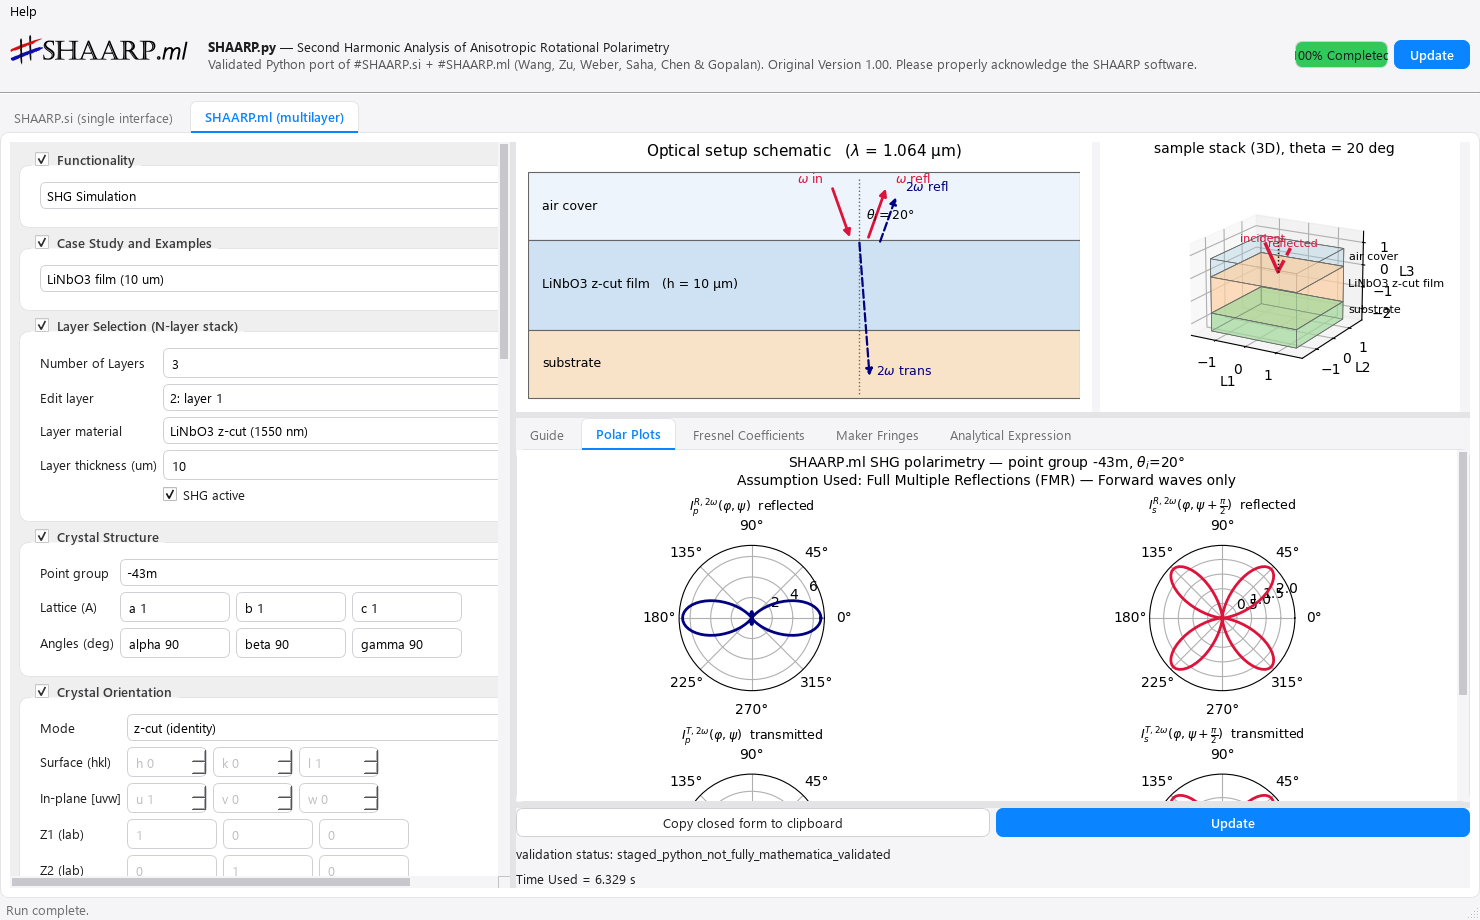
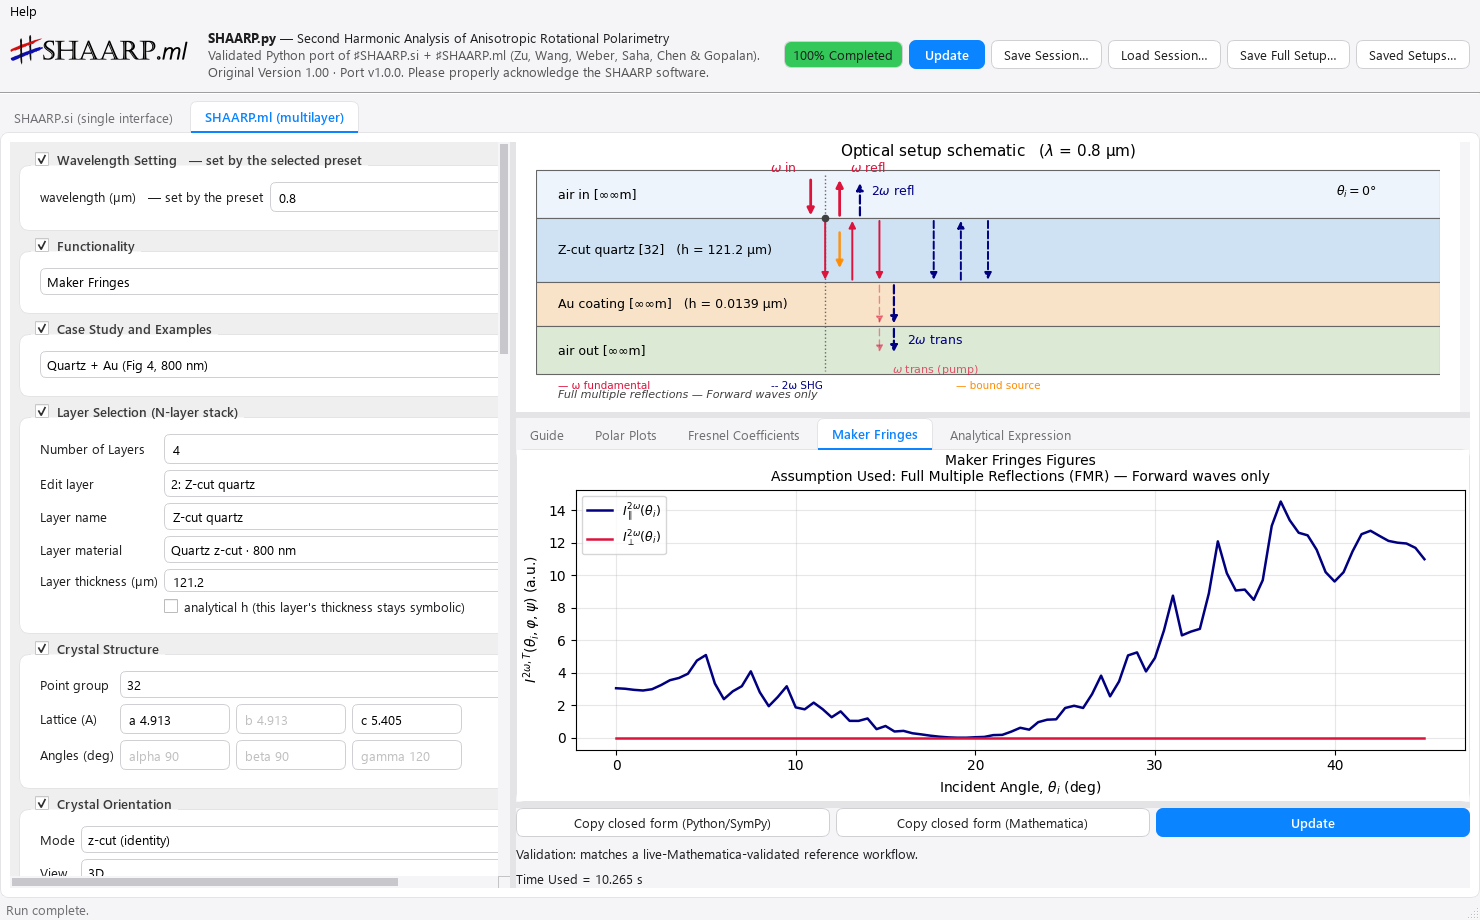
update

diff --git a/shaarp/desktop_app.py b/shaarp/desktop_app.py
@@ -419,6 +419,44 @@ def _load_logo_pixmap(QtGui):
     return _load_asset_pixmap(QtGui, "shaarp_ml_logo.png")
 
 
+def _layer_specs_equal(old: dict, new: dict) -> bool:
+    """True only when two layer specs are CERTAINLY identical.
+
+    Used to decide whether writing the edit fields back into the stack was a real user edit.
+    Clicking Update settles the selected row first, and that write-back used to mark a named
+    preset "edited (re-select to reset)" even when nothing had been touched -- which also routed
+    the compute down the modified-working-copy branch instead of the pristine factory one.
+
+    Deliberately conservative: any value we cannot compare confidently (a numpy tensor inside a
+    custom row, a nested dict, an exotic type) reports "different", which preserves the previous
+    always-dirty behaviour. A false "changed" costs a cosmetic marker; a false "unchanged" would
+    silently drop a real edit.
+    """
+    if old is new:
+        return True
+    if set(old) != set(new):
+        return False
+    for key in old:
+        a, b = old[key], new[key]
+        if key == "material":
+            # The stack holds the REGISTRY KEY ("Quartz z-cut (800 nm)") while the picker displays
+            # the palette label ("Quartz z-cut · 800 nm"). Comparing those raw strings made every
+            # settle look like a material change -- the actual reason untouched presets went dirty.
+            from .casestudy_materials import resolve_case_label
+            if resolve_case_label(a) != resolve_case_label(b):
+                return False
+            continue
+        if isinstance(a, (str, bool, int, float)) and isinstance(b, (str, bool, int, float)):
+            if type(a) is bool or type(b) is bool:
+                if bool(a) != bool(b):
+                    return False
+            elif a != b:
+                return False
+            continue
+        return False  # anything richer: do not guess
+    return True
+
+
 def _hline(QtWidgets):
     line = QtWidgets.QFrame()
     line.setFrameShape(QtWidgets.QFrame.HLine)
@@ -878,6 +916,12 @@ def build_main_window():
     progress.setValue(0)
     progress.setFormat("Ready")  # idle state; becomes "Computing…" then "100% Completed" per Update
     progress.setMaximumWidth(220)
+    # ...and never narrower than its own longest label. With only a maximum set, the bar could be
+    # squeezed until "100% Completed" rendered as "00% Completed" -- which is what both shipped
+    # documentation screenshots caught it doing. Measured from the widget's own font so it holds
+    # under another theme or DPI, and capped at the 220 maximum so it can never widen the window.
+    progress.setMinimumWidth(
+        min(220, progress.fontMetrics().horizontalAdvance("100% Completed") + 26))
     progress.setToolTip("Computation progress. Shows '100% Completed' after each Update (top, "
                         "input-panel, and output-panel Update buttons all recompute).")
     h_lay.addWidget(progress, 0)
@@ -1617,6 +1661,9 @@ def build_main_window():
                 if layer_mat.currentText() == ISOTROPIC_LAYER_CHOICE:
                     # the grids (Dielectric Tensors panel) own the values now — carry them over
                     spec["iso_n"] = list(old.get("iso_n") or [1.45, 1.46])
+                # settled_unchanged: the fields still hold exactly what is already in the stack,
+                # so this write-back is not a user edit and must not dirty the preset.
+                settled_unchanged = _layer_specs_equal(old, spec)
                 stack_state["stack"][i] = spec
                 sel = system_preset.currentText()
                 if sel == "N-layer stack (editor)":
@@ -1628,8 +1675,9 @@ def build_main_window():
                     # already reads stack_film_thickness_um — live, no divergence
                     _simple_template["um"] = float(layer_thick.value())
                     return
-                # any other edit diverges the working copy from the factory path
-                _set_ml_dirty(True)
+                # any other REAL edit diverges the working copy from the factory path
+                if not settled_unchanged:
+                    _set_ml_dirty(True)
 
             def _on_count_change(n):
                 # no mode switch — a count change modifies the working copy in place

diff --git a/tests/test_update_contract.py b/tests/test_update_contract.py
@@ -49,6 +49,73 @@ def _schematic_angle_texts(page):
 
 
 @unittest.skipUnless(HAVE_QT, "PySide6 not available")
+class PlainUpdateIsNotAnEdit(unittest.TestCase):
+    """Running a named preset must not mark it edited -- and the flag routes the COMPUTE.
+
+    Update settles the selected layer row before dispatching. That write-back rebuilds the spec
+    from the widgets, and the stack stores a material REGISTRY KEY ("Quartz z-cut (800 nm)") while
+    the picker displays the palette LABEL ("Quartz z-cut - 800 nm"). Comparing those two spellings
+    made every settle look like a material change, so a fresh preset went dirty the moment anyone
+    pressed Update: the group read "edited (re-select to reset)" when nothing had been touched, and
+    `on_run` then took the modified-working-copy branch instead of the pristine factory one. (The
+    two branches agree to ~1e-12, so this was never wrong numbers -- but it told the user their
+    untouched preset had been modified, on the ML tab the documentation tells them to open first.)
+
+    Both directions are pinned here: a plain Update stays clean, a real edit still dirties.
+    """
+
+    @classmethod
+    def setUpClass(cls):
+        from shaarp.desktop_app import build_main_window
+
+        cls.app = QtWidgets.QApplication.instance() or QtWidgets.QApplication([])
+        cls.win = build_main_window()
+
+    def _ml_case_group_title(self):
+        # BOTH tabs own a "Case Study and Examples" group; the ML one is last. Reading the first
+        # returns the SI tab's, which stays clean either way and hides the defect entirely.
+        titles = [g.title() for g in self.win.findChildren(QtWidgets.QGroupBox)
+                  if g.title().startswith("Case Study and Examples")]
+        self.assertTrue(titles, "no Case Study group found")
+        return titles[-1]
+
+    def _run_ml_update(self):
+        btn = [b for b in self.win.findChildren(QtWidgets.QPushButton)
+               if b.text() == "Update / Run"][-1]
+        btn.click()
+        for _ in range(120):
+            self.app.processEvents()
+
+    def test_a_plain_update_does_not_mark_an_untouched_preset_edited(self):
+        tabs = self.win.findChild(QtWidgets.QTabWidget)
+        tabs.setCurrentIndex(1)
+        for _ in range(15):
+            self.app.processEvents()
+        self.assertNotIn("edited", self._ml_case_group_title(), "dirty before anything happened")
+        self._run_ml_update()
+        self.assertNotIn(
+            "edited", self._ml_case_group_title(),
+            "a plain Update marked an untouched preset as edited -- the settle is being counted "
+            "as a user edit again (check _layer_specs_equal and the material label/key spellings)")
+
+    def test_a_real_edit_still_marks_the_preset_edited(self):
+        """The guard above must not be bought by suppressing genuine edits."""
+        tabs = self.win.findChild(QtWidgets.QTabWidget)
+        tabs.setCurrentIndex(1)
+        for _ in range(15):
+            self.app.processEvents()
+        self._run_ml_update()
+        spins = [s for s in self.win.findChildren(QtWidgets.QDoubleSpinBox)
+                 if "thickness" in (s.toolTip() or "").lower()]
+        self.assertTrue(spins, "no layer-thickness spin found")
+        spins[0].setValue(spins[0].value() + 5.0)
+        for _ in range(40):
+            self.app.processEvents()
+        self.assertIn("edited", self._ml_case_group_title(),
+                      "a real thickness edit no longer marks the preset edited")
+
+
+@unittest.skipUnless(HAVE_QT, "PySide6 not available")
 class UpdateContractAndStaleBanner(unittest.TestCase):
     @classmethod
     def setUpClass(cls):

diff --git a/tests/test_release_archive_name.py b/tests/test_release_archive_name.py
@@ -18,6 +18,7 @@ one broke whenever a comment was reflowed. A fence with its own copy of the logi
 """
 from __future__ import annotations
 
+import platform
 import sys
 import unittest
 from pathlib import Path
@@ -32,7 +33,7 @@ OUT = Path("dist") / "release"
 
 class ReleaseArchiveNameTests(unittest.TestCase):
     VERSIONS = ("1.0.0", "1.0.1", "1.2.3", "1.10.0", "10.20.30")
-    TOKENS = ("win64", "macos")
+    TOKENS = ("win64", "macos_arm64")
 
     def test_the_name_keeps_the_full_version_and_the_platform(self):
         for version in self.VERSIONS:
@@ -65,12 +66,20 @@ class ReleaseArchiveNameTests(unittest.TestCase):
         self.assertEqual(archive_path(OUT, "1.0.0").name,
                          f"SHAARP_py_v1.0.0_{platform_token()}.zip")
 
-    def test_one_bundle_per_operating_system(self):
-        """Windows and macOS are the built targets; the tokens carry no CPU architecture."""
-        for token in self.TOKENS:
-            name = archive_path(OUT, "1.0.0", token).name
-            self.assertNotIn("arm64", name)
-            self.assertNotIn("x86_64", name)
+    def test_the_macos_token_names_its_cpu_architecture(self):
+        """The macOS bundle is not universal2, so the asset name must say which Mac it runs on.
+
+        An arm64 app on an Intel Mac fails with "not supported on this Mac" -- not the Gatekeeper
+        dialog that every page of the documentation prepares the reader for, so none of the advice
+        applies. While the asset was named plain "macos", the only statement of the architecture
+        was a parenthesis in the README table, which a visitor arriving via the download badge
+        never sees.
+        """
+        token = platform_token()
+        if not token.startswith("macos"):
+            self.skipTest("the architecture suffix is a macOS concern")
+        self.assertRegex(token, r"^macos_\w+$")
+        self.assertIn(platform.machine(), archive_path(OUT, "1.0.0").name)
 
 
 if __name__ == "__main__":

diff --git a/shaarp/shaarp_gui.py b/shaarp/shaarp_gui.py
@@ -934,7 +934,7 @@ def build_custom_ml_system(
         surface_hkl=surface_hkl, in_plane_uvw=in_plane_uvw, z_axes=z_axes,
     )
     substrate = Material(
-        name="custom substrate", structure=CrystalStructure(point_group="1"), orientation=CrystalOrientation(),
+        name="custom substrate", structure=CrystalStructure(point_group="∞∞m"), orientation=CrystalOrientation(),
         epsilon_omega=(np.eye(3) * substrate_n_omega**2).astype(complex),
         epsilon_2omega=(np.eye(3) * substrate_n_2omega**2).astype(complex),
         d_voigt_pm_v=np.zeros((3, 6), dtype=complex),
@@ -945,7 +945,7 @@ def build_custom_ml_system(
         ambient = presets.air()
     else:
         ambient = Material(
-            name="ambient", structure=CrystalStructure(point_group="1"), orientation=CrystalOrientation(),
+            name="ambient", structure=CrystalStructure(point_group="∞∞m"), orientation=CrystalOrientation(),
             epsilon_omega=(np.eye(3) * ambient_n_omega**2).astype(complex),
             epsilon_2omega=(np.eye(3) * ambient_n_2omega**2).astype(complex),
             d_voigt_pm_v=np.zeros((3, 6), dtype=complex),

diff --git a/scripts/build_gui_bundle.py b/scripts/build_gui_bundle.py
@@ -21,6 +21,7 @@ from __future__ import annotations
 import argparse
 import importlib.util
 import os
+import platform
 import shutil
 import subprocess
 import sys
@@ -216,11 +217,19 @@ def data_root(app: Path) -> Path:
 
 
 def platform_token() -> str:
-    """Suffix identifying a release archive -- one bundle per operating system."""
+    """Suffix identifying a release archive.
+
+    macOS carries its CPU architecture because the bundle is NOT universal2. An arm64 build on an
+    Intel Mac fails with "not supported on this Mac" -- which looks nothing like the Gatekeeper
+    prompt the documentation prepares people for, so the reader has no idea what went wrong. The
+    asset was previously called just "macos", which told an Intel user nothing until they had
+    downloaded 80 MB. Deriving the architecture rather than hardcoding it means the name cannot
+    lie about a bundle built on some other machine.
+    """
     if IS_WIN:
         return "win64"
     if IS_MAC:
-        return "macos"
+        return f"macos_{platform.machine()}"  # arm64 on Apple Silicon, x86_64 on Intel
     return sys.platform
 
 

diff --git a/shaarp/symbolic.py b/shaarp/symbolic.py
@@ -12,7 +12,7 @@ def _sympy():
     except ImportError as exc:
         raise ImportError(
             "Symbolic SHAARP helpers require SymPy. Install with "
-            "`python -m pip install -e .[symbolic]` or `python -m pip install sympy`."
+            "`python -m pip install sympy`."
         ) from exc
     return sp
 
@@ -346,6 +346,7 @@ def fresnel_quadratic_eigenmodes_symbolic(principal_eps: Any, s: Any, *, simplif
     crystal (``e_x = e_y`` -> ordinary root ``u = 1/e_x`` makes two denominators 0).
     The clean D-formula is only valid for NON-degenerate (biaxial) media. So the
     field direction is computed degeneracy-aware:
+
       * 0 zero-denominators (biaxial generic): the D-formula.
       * 2 zero-denominators (uniaxial ordinary mode): the field lies in the
         (isotropic) degenerate plane, perpendicular to k -> ``E ~ s x optic_axis``

diff --git a/examples/single_interface_demo.py b/examples/single_interface_demo.py
@@ -1,3 +1,14 @@
+"""Smallest possible reflected-SHG call, using the REDUCED convenience model.
+
+``single_interface_intensity`` is the one-line convenience API: it collapses the anisotropic
+dielectric tensors to one effective refractive index, so it prints a RuntimeWarning saying it is
+not the full anisotropic eigenmode and boundary-condition solver. That warning is expected here --
+this file exists to show the shortest path from a preset to a plot.
+
+For numbers you intend to publish, use the validated solver instead:
+``run_si_numeric(sample, {"workflow": "shaarp_si_compat", ...})``, as in
+``gaas111_shg_polarimetry.py``. See docs/usage.md for the difference.
+"""
 import numpy as np
 import matplotlib.pyplot as plt
 

diff --git a/examples/multilayer_demo.py b/examples/multilayer_demo.py
@@ -1,3 +1,12 @@
+"""Smallest possible multilayer-SHG call, using the REDUCED convenience model.
+
+``multilayer_shg`` is the one-line convenience API: it is a coherent source-sum model, not the
+full SHAARP.ml forward/backward anisotropic multilayer solver, and says so in a RuntimeWarning at
+runtime. That warning is expected here -- this file shows the shortest path to a layer stack.
+
+For validated Maker fringes and transmitted SHG use ``run_maker_fringes`` /
+``compute_ml_gui_result``, as in ``maker_fringes_dense.py``. See docs/usage.md.
+"""
 import numpy as np
 import matplotlib.pyplot as plt
 

diff --git a/shaarp/casestudy_materials.py b/shaarp/casestudy_materials.py
@@ -267,7 +267,7 @@ def build_casestudy_ml_system(display_name: str, *, thickness_um: float = 1.0,
 
     def _iso(name, nw, n2w):
         return Material(
-            name=name, structure=CrystalStructure(point_group="1"), orientation=CrystalOrientation(),
+            name=name, structure=CrystalStructure(point_group="∞∞m"), orientation=CrystalOrientation(),
             epsilon_omega=(np.eye(3) * nw**2).astype(complex),
             epsilon_2omega=(np.eye(3) * n2w**2).astype(complex),
             d_voigt_pm_v=np.zeros((3, 6), dtype=complex),

diff --git a/shaarp/layer_stack.py b/shaarp/layer_stack.py
@@ -250,7 +250,7 @@ def _material_from_iso(n_w: float, n_2w: float, name: str = "isotropic medium"):
     from .config import CrystalOrientation, CrystalStructure, Material
 
     return Material(
-        name=name, structure=CrystalStructure(point_group="1"),
+        name=name, structure=CrystalStructure(point_group="∞∞m"),
         orientation=CrystalOrientation(),
         epsilon_omega=(np.eye(3) * float(n_w) ** 2).astype(complex),
         epsilon_2omega=(np.eye(3) * float(n_2w) ** 2).astype(complex),

diff --git a/shaarp/quartz_au_docs_case.py b/shaarp/quartz_au_docs_case.py
@@ -66,7 +66,7 @@ def _quartz_material() -> Material:
 
 def _gold_material() -> Material:
     return Material(
-        name="Au coating (docs)", structure=CrystalStructure(point_group="1"),
+        name="Au coating (docs)", structure=CrystalStructure(point_group="∞∞m"),
         orientation=CrystalOrientation(),
         epsilon_omega=(np.eye(3) * AU_N_OMEGA**2).astype(complex),
         epsilon_2omega=(np.eye(3) * AU_N_2OMEGA**2).astype(complex),

diff --git a/shaarp/presets.py b/shaarp/presets.py
@@ -9,7 +9,7 @@ from .tensors import impose_point_group
 def air() -> Material:
     return Material(
         name="Air",
-        structure=CrystalStructure(point_group="1"),
+        structure=CrystalStructure(point_group="∞∞m"),
         orientation=CrystalOrientation(),
         epsilon_omega=np.eye(3),
         epsilon_2omega=np.eye(3),
